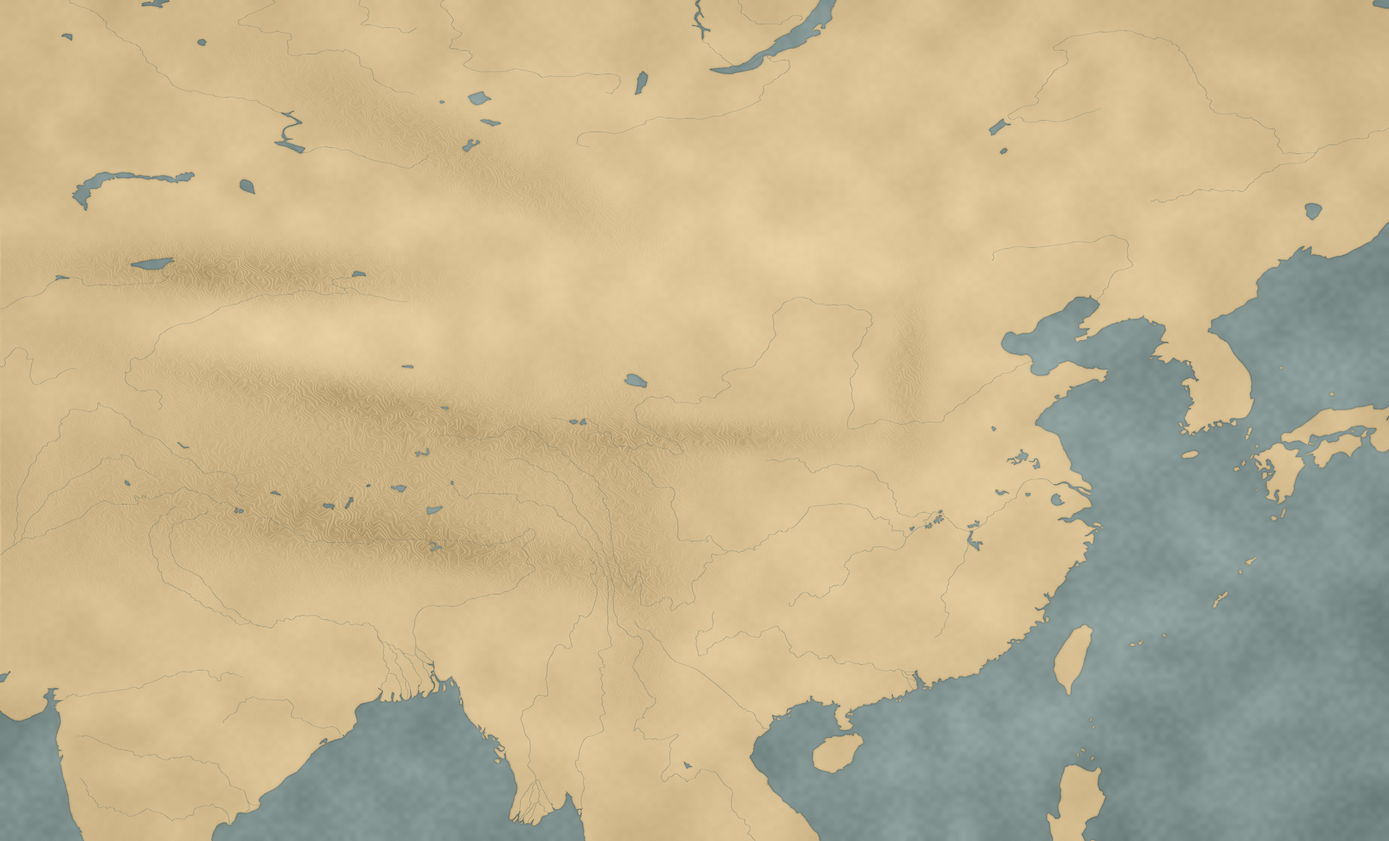
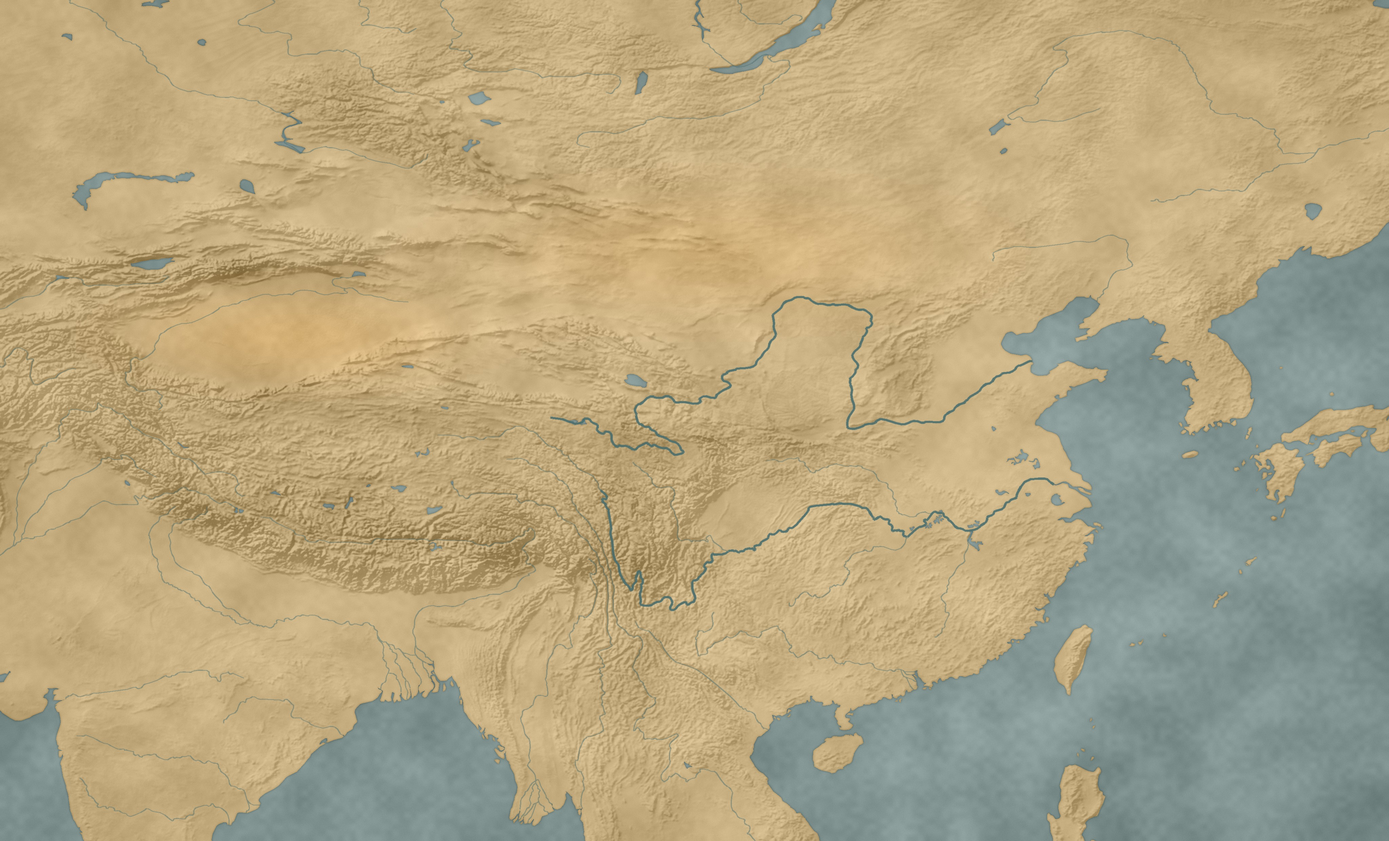
M2: shade map terrain with Natural Earth relief (Codex)

diff --git a/tools/build_world_map.py b/tools/build_world_map.py
@@ -1,4 +1,4 @@
-"""Render an equirectangular Tang-era map from Natural Earth physical vectors."""
+"""Render a Tang-era parchment from Natural Earth 1:50m vectors and shaded relief."""
 import io
 import json
 from pathlib import Path
@@ -18,22 +18,41 @@ south, north = bounds.get("latMin", 15), bounds.get("latMax", 55)
 cache = ROOT / "Library" / ".natural-earth"
 cache.mkdir(parents=True, exist_ok=True)
 
-def shapes(name):
-    filename = "ne_50m_" + name
-    path = cache / (filename + ".zip")
+def download(path, url):
     if not path.exists():
-        url = f"https://naturalearth.s3.amazonaws.com/50m_physical/{filename}.zip"
         with urlopen(url, timeout=90) as response:
             path.write_bytes(response.read())
+    return path
+
+def shapes(name, named=False):
+    filename = "ne_50m_" + name
+    path = cache / (filename + ".zip")
+    download(path, f"https://naturalearth.s3.amazonaws.com/50m_physical/{filename}.zip")
     with ZipFile(path) as archive:
-        with shapefile.Reader(shp=io.BytesIO(archive.read(filename + ".shp"))) as reader:
-            for shape in reader.iterShapes():
+        dbf = io.BytesIO(archive.read(filename + ".dbf")) if named else None
+        with shapefile.Reader(shp=io.BytesIO(archive.read(filename + ".shp")), dbf=dbf) as reader:
+            features = ((feature.shape, str(feature.record.as_dict().get("name", "")).casefold())
+                        for feature in reader.iterShapeRecords()) if named else ((shape, "") for shape in reader.iterShapes())
+            for shape, label in features:
                 if not hasattr(shape, "bbox") or shape.bbox[0] > east or shape.bbox[2] < west or shape.bbox[1] > north or shape.bbox[3] < south:
                     continue
                 ends = list(shape.parts) + [len(shape.points)]
                 for a,b in zip(ends, ends[1:]):
-                    yield [((x-west)/(east-west)*W, (north-y)/(north-south)*H)
-                           for x,y in shape.points[a:b]]
+                    line = [((x-west)/(east-west)*W, (north-y)/(north-south)*H)
+                            for x,y in shape.points[a:b]]
+                    yield (line, label) if named else line
+
+def shaded_relief():
+    path = download(cache / "SR_50M.zip", "https://naturalearth.s3.amazonaws.com/50m_raster/SR_50M.zip")
+    with ZipFile(path) as archive:
+        raster = next(name for name in archive.namelist() if name.lower().endswith(".tif"))
+        with Image.open(io.BytesIO(archive.read(raster))) as terrain:
+            px, py = terrain.width / 360, terrain.height / 180
+            crop = terrain.convert("L").resize(
+                (W, H), Image.Resampling.BICUBIC,
+                ((west+180)*px, (90-north)*py, (east+180)*px, (90-south)*py))
+    soft = np.asarray(crop.filter(ImageFilter.GaussianBlur(1.2)), dtype=np.float32)
+    return np.clip((248 - soft) / 125, 0, 1)
 
 rng = np.random.default_rng(123)
 def wash(width, height):
@@ -61,23 +80,23 @@ mountains = (hill(86,32,15,4.2,.08)*.65 + hill(86,36,10,1.15,-.19)*.75
 sand = hill(84,39,7,2.1)*.9 + hill(104,43,11,3.1)*.62
 broad = wash(44,29)
 rough = wash(230,150)
-ridge = np.abs(np.sin(x*8.8+y*9.7+rough*4.1 + broad*6.2))
-height = mountains * (broad*.35 + ridge*.23 + rough*.12 + .6)
-light = (height - np.roll(height, 4, axis=1)) * 95
-grain = rng.normal(0, 1.6, (H,W)).astype(np.float32)
+relief = shaded_relief()
+grain = rng.normal(0, 2.1, (H,W)).astype(np.float32)
 vignette = ((x-(west+east)/2)/(east-west)*2)**4 + ((y-(north+south)/2)/(north-south)*2)**4
-land_value = -40*height + light + sand*12 + broad*7 + rough*2
+land_value = -relief*(44 + 24*mountains) - mountains*10 + broad*9 + rough*4
 sea_value = broad*8 + rough*5 + wash(14,10)*8
 pixels = np.empty((H,W,3),dtype=np.uint8)
 for i,(paper,water) in enumerate(zip((220,196,151),(136,154,152))):
-    value = (paper+land_value)*mask + (water+sea_value)*(1-mask)
+    desert = sand * (10, -4, -19)[i]
+    value = (paper+land_value+desert)*mask + (water+sea_value)*(1-mask)
     pixels[:,:,i] = np.clip(value + grain - vignette*9 - abs(coast)*47,0,255)
 image = Image.fromarray(pixels)
 rivers = Image.new("L", (W,H))
 pen = ImageDraw.Draw(rivers)
-for line in shapes("rivers_lake_centerlines"):
-    pen.line(line,fill=115,width=2)
-image.paste((100,116,104),mask=rivers.filter(ImageFilter.GaussianBlur(.45)))
+for line, name in shapes("rivers_lake_centerlines", named=True):
+    principal = name in {"yangtze", "huang", "huang he", "yellow river", "chang jiang", "jinsha"}
+    pen.line(line, fill=225 if principal else 126, width=7 if principal else 3)
+image.paste((71,108,109),mask=rivers.filter(ImageFilter.GaussianBlur(.6)))
 output = ROOT / "Assets/Art/Map/world_map.jpg"
 output.parent.mkdir(parents=True,exist_ok=True)
 image.save(output,quality=91,optimize=True)

diff --git a/CREDITS.md b/CREDITS.md
@@ -42,7 +42,7 @@ Kenney published the OGG files below under [CC0 1.0](https://creativecommons.org
 
 ## Map data (public domain)
 
-`Assets/Art/Map/world_map.jpg` is an original rendering by Codex B, made with `tools/build_world_map.py`. It uses Natural Earth 1:50m Land, Lakes, and Rivers + Lake Centerlines. Natural Earth data is in the public domain. See [Physical vectors](https://www.naturalearthdata.com/downloads/50m-physical-vectors/) and the [terms of use](https://www.naturalearthdata.com/about/terms-of-use/). Node positions and roads in `worldmap.json` were authored for this project.
+`Assets/Art/Map/world_map.jpg` is an original rendering by Codex B with terrain and parchment refinements by Codex D. The `tools/build_world_map.py` source uses public-domain Natural Earth 1:50m Land, Lakes, Rivers + Lake Centerlines, and Shaded Relief. Node positions and roads in `worldmap.json` were authored for this project. [Physical vectors](https://www.naturalearthdata.com/downloads/50m-physical-vectors/) · [Shaded relief](https://www.naturalearthdata.com/downloads/50m-raster-data/50m-shaded-relief/) · [Terms of use](https://www.naturalearthdata.com/about/terms-of-use/)
 
 ## Textures (CC0)
 
